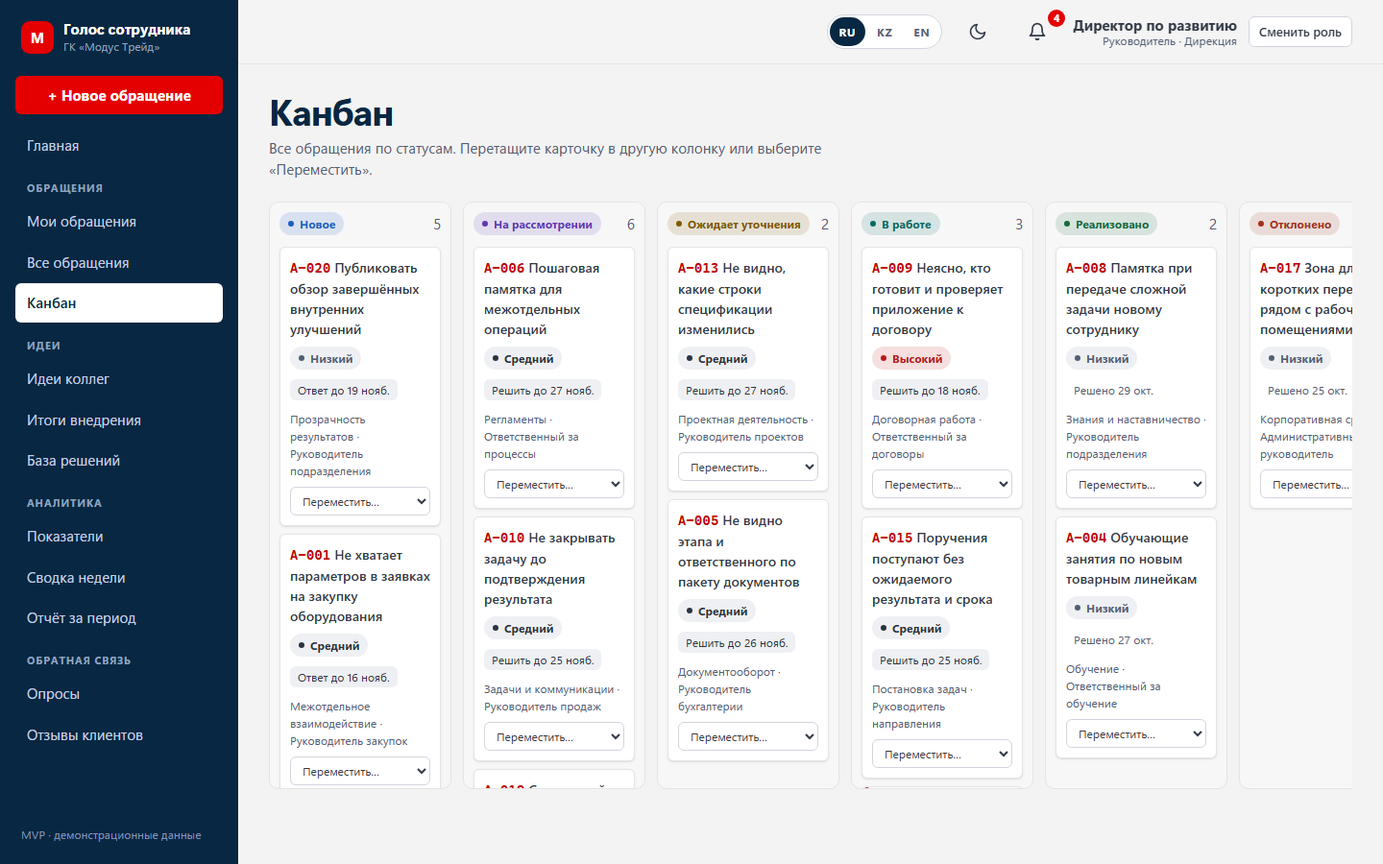
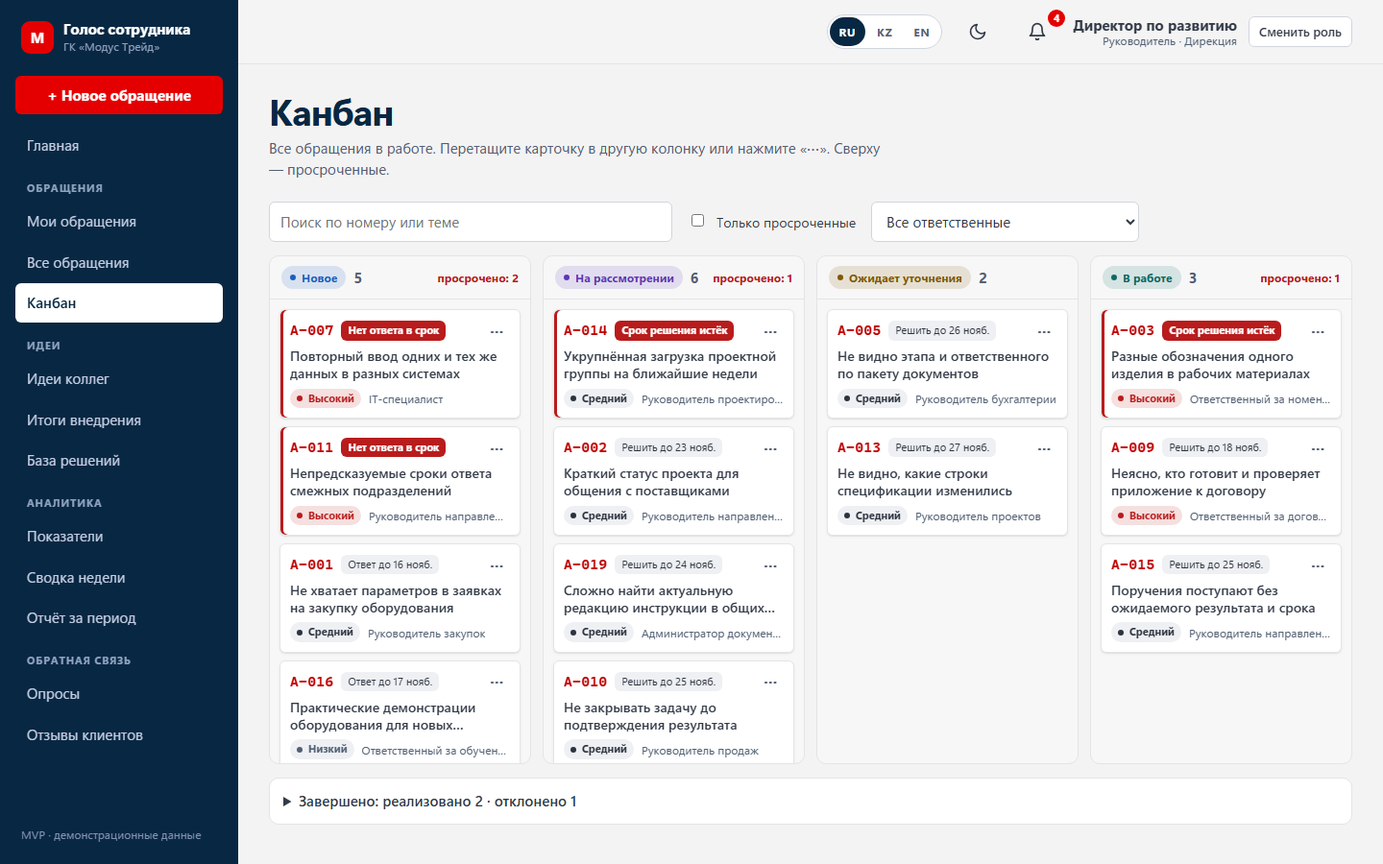
feat: канбан — четыре рабочие колонки, компактные карточки, поиск и отборы
- рабочие колонки (новое, на рассмотрении, ожидает уточнения, в работе) во всю ширину без прокрутки вбок; реализованные и отклонённые — в свёрнутом блоке «Завершено»
- компактные карточки: номер, срок, тема в две строки, приоритет и ответственный; сверху колонки — просроченные, в заголовке — число просроченных
- «⋯» вместо выпадающего списка на каждой карточке: перемещение с клавиатуры и телефона
- поиск по номеру и теме, «только просроченные», отбор по ответственному — без перезагрузки
- средние экраны — по две колонки, телефон — колонки листаются вбок
- тесты и скриншот обновлены; переводы 1068/1068

diff --git a/public/js/views/kanban.js b/public/js/views/kanban.js
@@ -1,11 +1,18 @@
-// Канбан: колонки по статусам, перетаскивание карточек. Для клавиатуры и телефона —
-// список «Переместить» на каждой карточке. Сервер проверяет допустимость перехода.
+// Канбан: четыре рабочие колонки во всю ширину, завершённые обращения — в свёрнутом блоке под доской.
+// Карточки компактные; переместить — перетаскиванием или кнопкой «⋯» (клавиатура, телефон).
+// Поиск и отборы работают без перезагрузки. Сервер проверяет допустимость перехода.
 import { h, mount, toast, badge, slaChip, options, field } from '../dom.js';
 import { getWithMeta, post, qs } from '../api.js';
+import { t } from '../i18n.js';
 
-const COLUMNS = ['new', 'in_review', 'need_info', 'in_progress', 'implemented', 'rejected'];
+const ACTIVE = ['new', 'in_review', 'need_info', 'in_progress'];
+const DONE = ['implemented', 'rejected'];
 const FINAL = ['implemented', 'rejected', 'closed'];
 const BOARD_LIMIT = 100;
+const NO_ASSIGNEE = 'none';
+
+// Отборы переживают перерисовку после перемещения карточки.
+const filters = { q: '', overdue: false, assignee: '', doneOpen: false };
 
 // Для уточнения нужен вопрос автору, для итогового статуса — результат: спрашиваем в диалоге.
 function askDetails(ticket, target, meta) {
@@ -13,11 +20,11 @@ function askDetails(ticket, target, meta) {
     const isFinal = FINAL.includes(target.key);
     const fieldName = isFinal ? 'resolution' : 'comment';
     const input = h('textarea', { rows: 4, required: true });
-    const templates = meta.templates.filter((t) => t.field === fieldName);
+    const templates = meta.templates.filter((x) => x.field === fieldName);
     const picker = h('select', { 'aria-label': 'Шаблон ответа', onchange: () => {
-      const found = templates.find((t) => String(t.id) === picker.value);
+      const found = templates.find((x) => String(x.id) === picker.value);
       if (found) input.value = found.text;
-    } }, options(templates.map((t) => ({ key: t.id, label: t.title })), { empty: 'Шаблон ответа…' }));
+    } }, options(templates.map((x) => ({ key: x.id, label: x.title })), { empty: 'Шаблон ответа…' }));
     const dialog = h('dialog', { class: 'dialog' },
       h('form', { method: 'dialog', class: 'stack', onsubmit: (e) => {
         e.preventDefault();
@@ -38,12 +45,30 @@ function askDetails(ticket, target, meta) {
   });
 }
 
+// Сначала просроченные, затем по ближайшему сроку.
+const deadline = (x) => (x.firstResponseAt ? x.dueAt : x.firstResponseDue) ?? '9999';
+const byUrgency = (a, b) => Number(b.sla.overdue) - Number(a.sla.overdue) || deadline(a).localeCompare(deadline(b));
+
+function matches(ticket) {
+  const q = filters.q.trim().toLowerCase();
+  if (q && !`${ticket.code} ${ticket.title}`.toLowerCase().includes(q)) return false;
+  if (filters.overdue && !ticket.sla.overdue) return false;
+  if (filters.assignee === NO_ASSIGNEE) return !ticket.assignee;
+  if (filters.assignee) return String(ticket.assignee?.id) === filters.assignee;
+  return true;
+}
+
+// Открыто не больше одного меню «⋯»; щелчок мимо закрывает его.
+document.addEventListener('click', (e) => {
+  for (const menu of document.querySelectorAll('.kb-menu[open]')) if (!menu.contains(e.target)) menu.open = false;
+});
+
 export async function renderKanban(el, { me, meta, rerender }) {
   const isOversight = me.role === 'manager' || me.role === 'admin';
   const scope = isOversight ? 'all' : 'assigned';
   const { data: tickets, meta: pageMeta } = await getWithMeta(`/tickets${qs({ scope, notClosed: '1', limit: BOARD_LIMIT })}`);
   const labels = Object.fromEntries(meta.statuses.map((s) => [s.key, s.label]));
-  const byId = new Map(tickets.map((t) => [String(t.id), t]));
+  const byId = new Map(tickets.map((x) => [String(x.id), x]));
   const allowed = (ticket) => meta.transitions[ticket.status].map((key) => ({ key, label: labels[key] }));
 
   const move = async (ticket, targetKey) => {
@@ -64,25 +89,31 @@ export async function renderKanban(el, { me, meta, rerender }) {
     }
   };
 
-  const card = (t) => {
-    const moves = allowed(t).filter((s) => s.key !== 'closed' || FINAL.includes(t.status));
-    return h('article', {
-      class: `kb-card ${t.sla.overdue ? 'overdue' : ''}`, draggable: 'true',
-      ondragstart: (e) => { e.dataTransfer.setData('text/plain', String(t.id)); e.dataTransfer.effectAllowed = 'move'; },
-    },
-    h('a', { href: `#/t/${t.id}`, class: 'kb-title' }, h('span', { class: 't-code' }, t.code), ' ', t.title),
-    h('div', { class: 'row' }, badge('priority', t.priority, t.priorityLabel), slaChip(t)),
-    h('div', { class: 't-sub' }, `${t.category.name}${isOversight ? ` · ${t.assignee?.name ?? 'без ответственного'}` : ''}`),
-    moves.length > 0 && h('select', {
-      class: 'kb-move', 'aria-label': `Переместить ${t.code}`,
-      onchange: (e) => { const value = e.target.value; e.target.value = ''; if (value) move(t, value); },
-    }, options(moves, { empty: 'Переместить…' })));
+  const moveMenu = (ticket) => {
+    const moves = allowed(ticket).filter((s) => s.key !== 'closed' || FINAL.includes(ticket.status));
+    if (moves.length === 0) return null;
+    const menu = h('details', { class: 'kb-menu' },
+      h('summary', { 'aria-label': `${t('Переместить')} ${ticket.code}`, title: t('Переместить') }, '⋯'),
+      h('div', { class: 'kb-menu-list' },
+        h('span', { class: 'kb-menu-title' }, 'Переместить в'),
+        moves.map((s) => h('button', { type: 'button', onclick: () => { menu.open = false; move(ticket, s.key); } }, s.label))));
+    return menu;
   };
 
-  const column = (status) => {
-    const items = tickets.filter((t) => t.status === status);
+  const card = (ticket) => h('article', {
+    class: `kb-card ${ticket.sla.overdue ? 'overdue' : ''}`, draggable: 'true', 'data-code': ticket.code,
+    ondragstart: (e) => { e.dataTransfer.setData('text/plain', String(ticket.id)); e.dataTransfer.effectAllowed = 'move'; },
+  },
+  h('div', { class: 'kb-card-top' }, h('span', { class: 't-code' }, ticket.code), slaChip(ticket), moveMenu(ticket)),
+  h('a', { href: `#/t/${ticket.id}`, class: 'kb-title', title: ticket.title }, ticket.title),
+  h('div', { class: 'kb-meta' },
+    badge('priority', ticket.priority, ticket.priorityLabel),
+    h('span', { class: 'kb-who' }, isOversight ? (ticket.assignee?.name ?? t('без ответственного')) : ticket.category.name)));
+
+  const column = (status, items) => {
+    const overdue = items.filter((x) => x.sla.overdue).length;
     const col = h('section', {
-      class: 'kb-col', 'data-status': status,
+      class: 'kb-col', 'data-status': status, 'aria-label': labels[status],
       ondragover: (e) => { e.preventDefault(); col.classList.add('kb-over'); },
       ondragleave: () => col.classList.remove('kb-over'),
       ondrop: (e) => {
@@ -92,17 +123,45 @@ export async function renderKanban(el, { me, meta, rerender }) {
         if (ticket && ticket.status !== status) move(ticket, status);
       },
     },
-    h('header', { class: 'kb-head' }, h('span', { class: `badge status-${status}` }, labels[status]), h('span', { class: 'muted' }, String(items.length))),
-    items.length === 0 ? h('p', { class: 'kb-empty' }, 'Пусто') : items.map(card));
+    h('header', { class: 'kb-head' },
+      h('span', { class: `badge status-${status}` }, labels[status]),
+      h('span', { class: 'kb-count' }, String(items.length)),
+      overdue > 0 && h('span', { class: 'kb-overdue' }, `${t('просрочено')}: ${overdue}`)),
+    h('div', { class: 'kb-cards' }, items.length === 0 ? h('p', { class: 'kb-empty' }, 'Пусто') : items.map(card)));
     return col;
   };
 
+  const board = h('div');
+  const draw = () => {
+    const visible = tickets.filter(matches).sort(byUrgency);
+    const of = (status) => visible.filter((x) => x.status === status);
+    const done = h('details', { class: 'kb-done', open: filters.doneOpen, ontoggle: (e) => { filters.doneOpen = e.target.open; } },
+      h('summary', null, `${t('Завершено')}: ${t('реализовано')} ${of('implemented').length} · ${t('отклонено')} ${of('rejected').length}`),
+      h('div', { class: 'kanban kanban-done' }, DONE.map((s) => column(s, of(s)))));
+    mount(board,
+      h('div', { class: 'kanban' }, ACTIVE.map((s) => column(s, of(s)))),
+      done);
+  };
+
+  const assignees = [...new Map(tickets.filter((x) => x.assignee).map((x) => [String(x.assignee.id), x.assignee.name])).entries()]
+    .sort((a, b) => a[1].localeCompare(b[1], 'ru'));
+  const search = h('input', { type: 'search', value: filters.q, placeholder: 'Поиск по номеру или теме', 'aria-label': 'Поиск по канбану',
+    oninput: (e) => { filters.q = e.target.value; draw(); } });
+  const overdueOnly = h('label', { class: 'check' },
+    h('input', { type: 'checkbox', checked: filters.overdue, onchange: (e) => { filters.overdue = e.target.checked; draw(); } }),
+    h('span', null, 'Только просроченные'));
+  const assigneeIn = isOversight && h('select', { 'aria-label': 'Ответственный', onchange: (e) => { filters.assignee = e.target.value; draw(); } },
+    options([{ key: NO_ASSIGNEE, label: 'Без ответственного' }, ...assignees.map(([key, label]) => ({ key, label }))], { empty: 'Все ответственные' }));
+  if (assigneeIn) assigneeIn.value = filters.assignee;
+
+  draw();
   mount(el,
     h('div', { class: 'page-head' },
       h('div', null, h('h1', null, 'Канбан'),
         h('p', null, isOversight
-          ? 'Все обращения по статусам. Перетащите карточку в другую колонку или выберите «Переместить».'
-          : 'Ваша очередь по статусам. Перетащите карточку в другую колонку или выберите «Переместить».'))),
+          ? 'Все обращения в работе. Перетащите карточку в другую колонку или нажмите «⋯». Сверху — просроченные.'
+          : 'Ваша очередь. Перетащите карточку в другую колонку или нажмите «⋯». Сверху — просроченные.'))),
+    h('div', { class: 'kb-toolbar' }, search, overdueOnly, assigneeIn),
     pageMeta.total > tickets.length && h('p', { class: 'count' }, `Показаны последние ${tickets.length} из ${pageMeta.total}`),
-    h('div', { class: 'kanban' }, COLUMNS.map(column)));
+    board);
 }

diff --git a/public/css/styles.css b/public/css/styles.css
@@ -410,27 +410,67 @@ path.ch-s2 { fill: var(--series-2); }
 .an-charts { margin-bottom: 16px; }
 
 /* ---------- Доска задач ---------- */
-/* Доска по высоте окна: колонки одной высоты, каждая прокручивается сама, а полоса горизонтальной
-   прокрутки видна сразу внизу экрана, а не под самой длинной колонкой. */
-.kanban { display: grid; grid-template-columns: repeat(6, minmax(190px, 1fr)); gap: 12px; overflow-x: auto; padding-bottom: 8px;
-  height: calc(100vh - 280px); min-height: 420px; align-items: stretch; scrollbar-width: thin; }
-.kb-col { background: var(--surface-2); border: 1px solid var(--line); border-radius: var(--r-md); padding: 0 10px 10px; min-height: 0; overflow-y: auto; scrollbar-width: thin; display: flex; flex-direction: column; gap: 8px; transition: border-color var(--fast), background var(--fast); }
-.kb-col > .kb-head { position: sticky; top: 0; z-index: 1; background: inherit; padding: 10px 0 4px; }
+/* Четыре рабочие колонки во всю ширину и по высоте окна: каждая прокручивается сама, сверху — просроченные.
+   Завершённые (реализовано, отклонено) — в свёрнутом блоке под доской. */
+.kb-toolbar { display: flex; flex-wrap: wrap; gap: 10px 16px; align-items: center; margin-bottom: 14px; }
+.kb-toolbar input[type="search"] { flex: 1 1 260px; max-width: 420px; }
+.kb-toolbar select { width: auto; }
+.kb-toolbar .check { align-items: center; font-size: 14px; white-space: nowrap; }
+.kb-toolbar .check input { margin-top: 0; }
+.kanban { display: grid; grid-template-columns: repeat(4, minmax(0, 1fr)); gap: 12px;
+  height: calc(100vh - 370px); min-height: 400px; align-items: stretch; }
+.kb-col { background: var(--surface-2); border: 1px solid var(--line); border-radius: var(--r-md); min-height: 0;
+  display: flex; flex-direction: column; transition: border-color var(--fast), background var(--fast); }
 .kb-col.kb-over { border-color: var(--focus); background: color-mix(in srgb, var(--focus) 10%, var(--surface)); }
-.kb-head { display: flex; justify-content: space-between; align-items: center; }
+.kb-head { display: flex; align-items: center; gap: 8px; padding: 10px 12px; border-bottom: 1px solid var(--line); }
+.kb-count { font-weight: 700; color: var(--muted); }
+.kb-overdue { margin-left: auto; font-size: 12px; font-weight: 700; color: var(--danger); }
+.kb-cards { flex: 1; min-height: 0; overflow-y: auto; scrollbar-width: thin; padding: 10px; display: flex; flex-direction: column; gap: 8px; }
 .kb-empty { color: var(--muted); font-size: 13px; text-align: center; margin: 16px 0; }
-.kb-card { background: var(--surface); border: 1px solid var(--line); border-radius: var(--r-sm); padding: 10px; display: flex; flex-direction: column; gap: 8px; cursor: grab; box-shadow: var(--shadow-1); }
+.kb-card { position: relative; background: var(--surface); border: 1px solid var(--line); border-radius: var(--r-sm); padding: 9px 10px 10px;
+  display: flex; flex-direction: column; gap: 6px; cursor: grab; box-shadow: var(--shadow-1); transition: border-color var(--fast); }
+.kb-card:hover { border-color: var(--line-strong); }
 .kb-card:active { cursor: grabbing; }
 .kb-card.overdue { box-shadow: inset 3px 0 0 var(--danger), var(--shadow-1); }
-.kb-title { text-decoration: none; font-weight: 600; font-size: 14px; }
+.kb-card-top { display: flex; align-items: center; gap: 8px; }
+.kb-card-top .chip { font-size: 11px; padding: 2px 7px; }
+.kb-title { color: var(--text); text-decoration: none; font-weight: 600; font-size: 14px; line-height: 1.3;
+  display: -webkit-box; -webkit-line-clamp: 2; -webkit-box-orient: vertical; overflow: hidden; }
 .kb-title:hover { text-decoration: underline; }
-.kb-move { font-size: 12px; padding: 5px 8px; }
+.kb-meta { display: flex; align-items: center; gap: 8px; min-width: 0; font-size: 12px; color: var(--muted); }
+.kb-meta .badge { font-size: 11px; padding: 2px 7px; flex: none; }
+.kb-who { overflow: hidden; text-overflow: ellipsis; white-space: nowrap; min-width: 0; }
+/* «⋯» — перемещение без перетаскивания: клавиатура и телефон. */
+.kb-menu { margin-left: auto; position: relative; }
+.kb-menu > summary { list-style: none; cursor: pointer; width: 28px; height: 24px; display: grid; place-items: center;
+  border-radius: 6px; color: var(--muted); font-weight: 700; line-height: 1; }
+.kb-menu > summary::-webkit-details-marker { display: none; }
+.kb-menu > summary:hover, .kb-menu[open] > summary { background: var(--surface-2); color: var(--text); }
+.kb-menu > summary:focus-visible { outline: 2px solid var(--focus); outline-offset: 1px; }
+.kb-menu-list { position: absolute; right: 0; top: calc(100% + 4px); z-index: 4; min-width: 190px; display: flex; flex-direction: column;
+  background: var(--surface); border: 1px solid var(--line-strong); border-radius: var(--r-sm); box-shadow: var(--shadow-2); padding: 6px; }
+.kb-menu-title { font-size: 11px; font-weight: 700; text-transform: uppercase; letter-spacing: .06em; color: var(--muted); padding: 4px 8px; }
+.kb-menu-list button { text-align: left; background: none; border: 0; color: var(--text); font: inherit; font-size: 14px; padding: 7px 8px; border-radius: 6px; cursor: pointer; }
+.kb-menu-list button:hover, .kb-menu-list button:focus-visible { background: var(--surface-2); outline: none; }
+.kb-done { margin-top: 14px; border: 1px solid var(--line); border-radius: var(--r-md); background: var(--surface); }
+.kb-done > summary { cursor: pointer; padding: 12px 14px; font-weight: 600; }
+.kb-done[open] > summary { border-bottom: 1px solid var(--line); }
+.kanban-done { grid-template-columns: repeat(2, minmax(0, 1fr)); height: auto; min-height: 0; padding: 12px; }
+.kanban-done .kb-col { max-height: 420px; }
+/* Между телефоном и широким экраном четыре колонки тесноваты — по две в ряд. */
+@media (max-width: 1100px) {
+  .kanban { grid-template-columns: repeat(2, minmax(0, 1fr)); height: auto; }
+  .kanban .kb-col { max-height: 70vh; }
+}
 
 @media (max-width: 820px) {
   .home-grid { grid-template-columns: 1fr; }
   /* На телефоне доска идёт вместе со страницей: вложенная прокрутка колонок там неудобна. */
-  .kanban { grid-template-columns: repeat(6, 78vw); height: auto; min-height: 0; align-items: start; }
-  .kb-col { overflow-y: visible; }
+  .kanban { grid-template-columns: repeat(4, 82vw); overflow-x: auto; scroll-snap-type: x mandatory; height: auto; min-height: 0; align-items: start; }
+  .kanban-done { grid-template-columns: repeat(2, 82vw); }
+  .kb-col { scroll-snap-align: start; }
+  .kanban .kb-col { max-height: none; }
+  .kb-cards { overflow-y: visible; }
 }
 
 /* ---------- Опросы и форма клиента ---------- */

diff --git a/public/js/i18n/kk.js b/public/js/i18n/kk.js
@@ -1087,4 +1087,14 @@ export default {
   'Демо-почта': 'Демо-пошта',
   '[адрес]': '[мекенжай]',
   'Почта: сервер не поддерживает шифрование — письмо не отправлено': 'Пошта: сервер шифрлауды қолдамайды — хат жіберілмеді',
+  'Ваша очередь. Перетащите карточку в другую колонку или нажмите «⋯». Сверху — просроченные.': 'Сіздің кезегіңіз. Карточканы басқа бағанға сүйреңіз немесе «⋯» басыңыз. Мерзімі өткендер жоғарыда.',
+  'Все обращения в работе. Перетащите карточку в другую колонку или нажмите «⋯». Сверху — просроченные.': 'Жұмыстағы барлық өтініштер. Карточканы басқа бағанға сүйреңіз немесе «⋯» басыңыз. Мерзімі өткендер жоғарыда.',
+  'Все ответственные': 'Барлық жауаптылар',
+  'Завершено': 'Аяқталды',
+  'Переместить в': 'Мына жерге жылжыту',
+  'Поиск по канбану': 'Канбан бойынша іздеу',
+  'Поиск по номеру или теме': 'Нөмір немесе тақырып бойынша іздеу',
+  'отклонено': 'қабылданбады',
+  'просрочено': 'мерзімі өтті',
+  'реализовано': 'іске асырылды',
 };

diff --git a/public/js/i18n/en.js b/public/js/i18n/en.js
@@ -1087,4 +1087,14 @@ export default {
   'Демо-почта': 'Demo mailbox',
   '[адрес]': '[address]',
   'Почта: сервер не поддерживает шифрование — письмо не отправлено': 'Email: the server does not support encryption — the email was not sent',
+  'Ваша очередь. Перетащите карточку в другую колонку или нажмите «⋯». Сверху — просроченные.': 'Your queue. Drag a card to another column or press “⋯”. Overdue ones are on top.',
+  'Все обращения в работе. Перетащите карточку в другую колонку или нажмите «⋯». Сверху — просроченные.': 'All requests in progress. Drag a card to another column or press “⋯”. Overdue ones are on top.',
+  'Все ответственные': 'All assignees',
+  'Завершено': 'Completed',
+  'Переместить в': 'Move to',
+  'Поиск по канбану': 'Search the board',
+  'Поиск по номеру или теме': 'Search by number or subject',
+  'отклонено': 'rejected',
+  'просрочено': 'overdue',
+  'реализовано': 'implemented',
 };

diff --git a/README.md b/README.md
@@ -177,7 +177,7 @@ docker build -t feedback-mvp . && docker run -p 3000:3000 -v feedback-data:/data
 - Аналитика по клиентам из 1С: на странице «Показатели» — клиенты с наибольшим числом обращений (всего, открыто, проблем, частая категория), по клику — реестр, отобранный по клиенту.
 - Главная страница по ролям: сотруднику — его обращения и ожидаемые от него ответы, ответственному — очередь и ближайшие сроки, руководителю — показатели, просрочки и график.
 - Графики динамики по неделям: подано и рассмотрено, время до первого ответа (с подсказками и табличным видом).
-- Канбан с перетаскиванием и запросом результата или вопроса автору при перемещении.
+- Канбан: четыре рабочие колонки во всю ширину (новое, на рассмотрении, ожидает уточнения, в работе), реализованные и отклонённые — в свёрнутом блоке «Завершено». Компактные карточки, сверху колонки — просроченные; поиск, «только просроченные» и отбор по ответственному без перезагрузки. Переместить — перетаскиванием или кнопкой «⋯»; при переходе в «Ожидает уточнения» и итоговый статус система спрашивает вопрос автору или результат.
 - Шаблоны ответов, приглашение коллеги в обсуждение, подписка на обращение.
 - Черновик нового обращения сохраняется в браузере и восстанавливается.
 - Сроки SLA настраиваются администратором; праздничные дни 2026–2027 не считаются; о неустранённой просрочке напоминают каждые 2 рабочих дня.
